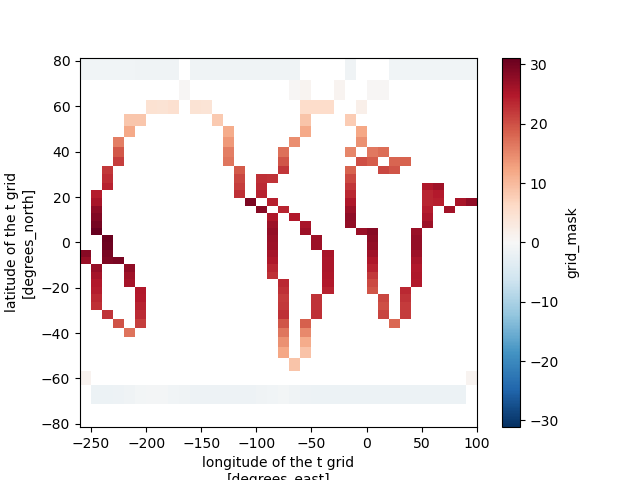
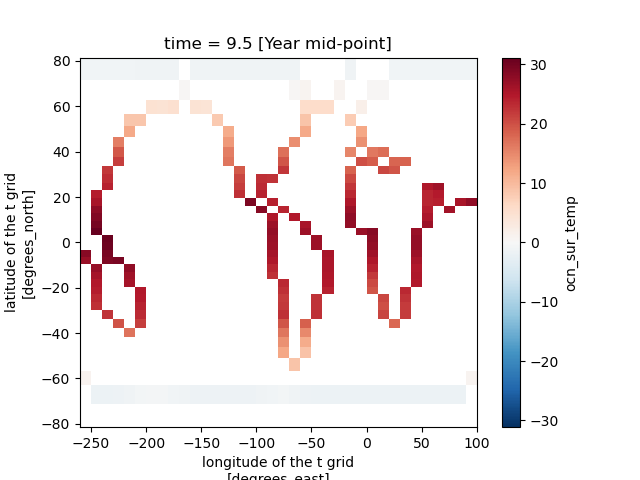
bug fix in plot_coastal_data.py

Changed region(s): [[0.3438, 0.0625, 0.625, 0.125], [0.875, 0.4062, 0.9062, 0.625], [0.25, 0.0625, 0.3125, 0.125]]

diff --git a/docs/source/auto_examples/plot_coastal_data.py b/docs/source/auto_examples/plot_coastal_data.py
@@ -4,6 +4,8 @@ Plot coastal only data
 =========================================
 
 This example shows how to plot the PO4 distribution in each basin.
+
+This example is independent from GENIE's mask
 """
 
 import xarray as xr
@@ -21,4 +23,4 @@ sst = model.get_var('ocn_sur_temp').isel(time=-1)
 gc = model.grid_category()
 
 ## coastal region
-xr.where(gc == 0, sst.data.values, np.nan).plot()
+xr.where(gc == 0, sst.data, np.nan).plot()

diff --git a/examples/plot_coastal_data.py b/examples/plot_coastal_data.py
@@ -4,6 +4,8 @@ Plot coastal only data
 =========================================
 
 This example shows how to plot the PO4 distribution in each basin.
+
+This example is independent from GENIE's mask
 """
 
 import xarray as xr
@@ -21,4 +23,4 @@ sst = model.get_var('ocn_sur_temp').isel(time=-1)
 gc = model.grid_category()
 
 ## coastal region
-xr.where(gc == 0, sst.data.values, np.nan).plot()
+xr.where(gc == 0, sst.data, np.nan).plot()

diff --git a/docs/source/auto_examples/plot_coastal_data.rst b/docs/source/auto_examples/plot_coastal_data.rst
@@ -24,12 +24,14 @@ Plot coastal only data
 
 This example shows how to plot the PO4 distribution in each basin.
 
-.. GENERATED FROM PYTHON SOURCE LINES 8-25
+This example is independent from GENIE's mask
+
+.. GENERATED FROM PYTHON SOURCE LINES 10-27
 
 
 
 .. image-sg:: /auto_examples/images/sphx_glr_plot_coastal_data_001.png
-   :alt: plot coastal data
+   :alt: time = 9.5 [Year mid-point]
    :srcset: /auto_examples/images/sphx_glr_plot_coastal_data_001.png
    :class: sphx-glr-single-img
 
@@ -38,10 +40,12 @@ This example shows how to plot the PO4 distribution in each basin.
 
  .. code-block:: none
 
+    /Users/yingrui/miniforge3/lib/python3.12/site-packages/pyproj/network.py:59: UserWarning: pyproj unable to set PROJ database path.
+      _set_context_ca_bundle_path(ca_bundle_path)
     /Users/yingrui/cgeniepy/src/cgeniepy/model.py:51: UserWarning: No gemflag is provided, use default gemflags: [biogem]
       warnings.warn("No gemflag is provided, use default gemflags: [biogem]")
 
-    <matplotlib.collections.QuadMesh object at 0x1436b70e0>
+    <matplotlib.collections.QuadMesh object at 0x1442763c0>
 
 
 
@@ -67,12 +71,12 @@ This example shows how to plot the PO4 distribution in each basin.
     gc = model.grid_category()
 
     ## coastal region
-    xr.where(gc == 0, sst.data.values, np.nan).plot()
+    xr.where(gc == 0, sst.data, np.nan).plot()
 
 
 .. rst-class:: sphx-glr-timing
 
-   **Total running time of the script:** (0 minutes 0.072 seconds)
+   **Total running time of the script:** (0 minutes 1.449 seconds)
 
 
 .. _sphx_glr_download_auto_examples_plot_coastal_data.py:

diff --git a/docs/source/auto_examples/sg_execution_times.rst b/docs/source/auto_examples/sg_execution_times.rst
@@ -6,7 +6,7 @@
 
 Computation times
 =================
-**00:01.246** total execution time for 18 files **from auto_examples**:
+**00:01.449** total execution time for 18 files **from auto_examples**:
 
 .. container::
 
@@ -32,8 +32,8 @@ Computation times
    * - Example
      - Time
      - Mem (MB)
-   * - :ref:`sphx_glr_auto_examples_plot_data_on_model.py` (``plot_data_on_model.py``)
-     - 00:01.246
+   * - :ref:`sphx_glr_auto_examples_plot_coastal_data.py` (``plot_coastal_data.py``)
+     - 00:01.449
      - 0.0
    * - :ref:`sphx_glr_auto_examples_plot_PO4_distribution.py` (``plot_PO4_distribution.py``)
      - 00:00.000
@@ -44,10 +44,10 @@ Computation times
    * - :ref:`sphx_glr_auto_examples_plot_arrcomparison.py` (``plot_arrcomparison.py``)
      - 00:00.000
      - 0.0
-   * - :ref:`sphx_glr_auto_examples_plot_coastal_data.py` (``plot_coastal_data.py``)
+   * - :ref:`sphx_glr_auto_examples_plot_d13C_comp.py` (``plot_d13C_comp.py``)
      - 00:00.000
      - 0.0
-   * - :ref:`sphx_glr_auto_examples_plot_d13C_comp.py` (``plot_d13C_comp.py``)
+   * - :ref:`sphx_glr_auto_examples_plot_data_on_model.py` (``plot_data_on_model.py``)
      - 00:00.000
      - 0.0
    * - :ref:`sphx_glr_auto_examples_plot_evaluation.py` (``plot_evaluation.py``)
